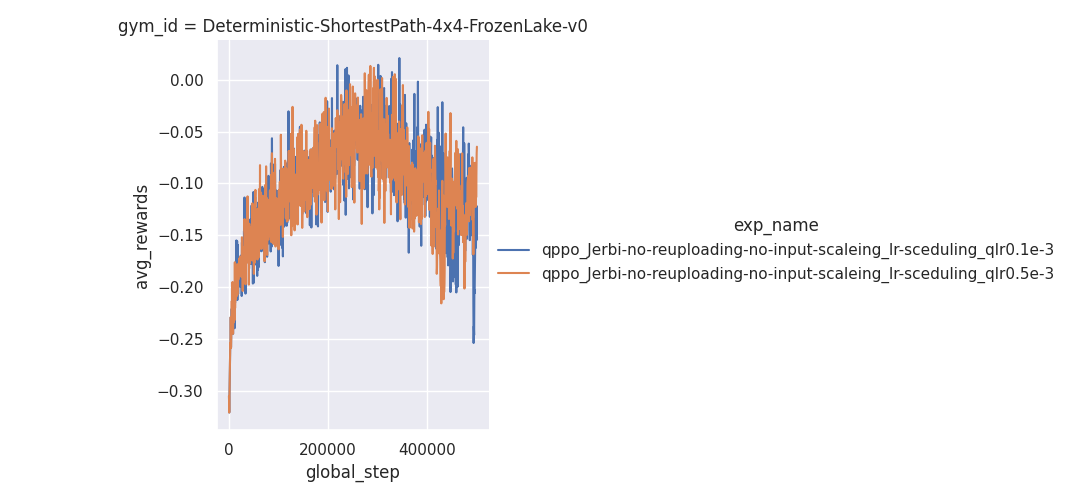
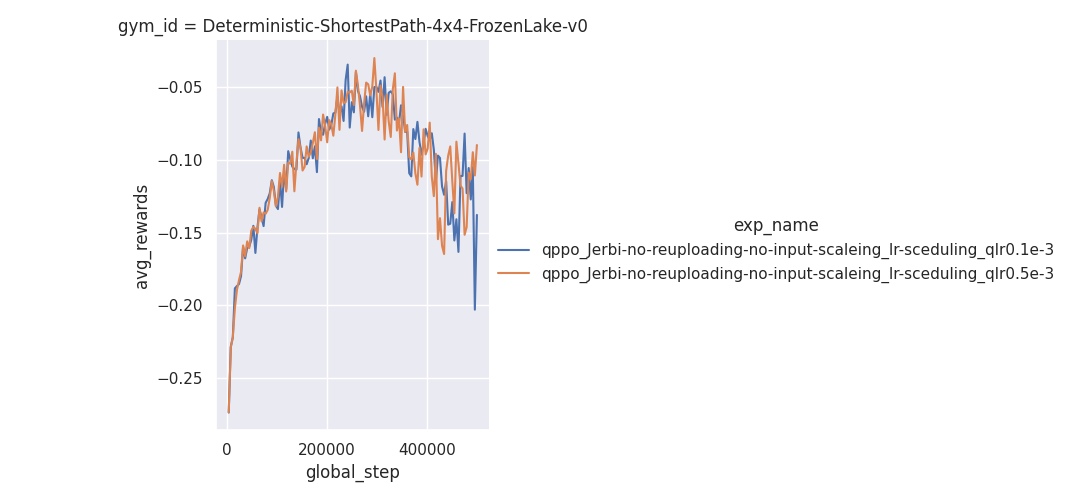
new plots

diff --git a/test_log.py b/test_log.py
@@ -54,7 +54,7 @@ exp_names = [
     "qppo_Jerbi-no-reuploading-no-input-scaleing_lr-sceduling_qlr0.5e-3",
 ]
 seeds = [10, 20, 30]
-stepsize = 4 * 128 * 1
+stepsize = 4 * 128 * 8
 max_steps = 500000
 
 plot_test_avg(results_dir, plot_dir, gym_id, exp_names, seeds, stepsize, max_steps)
